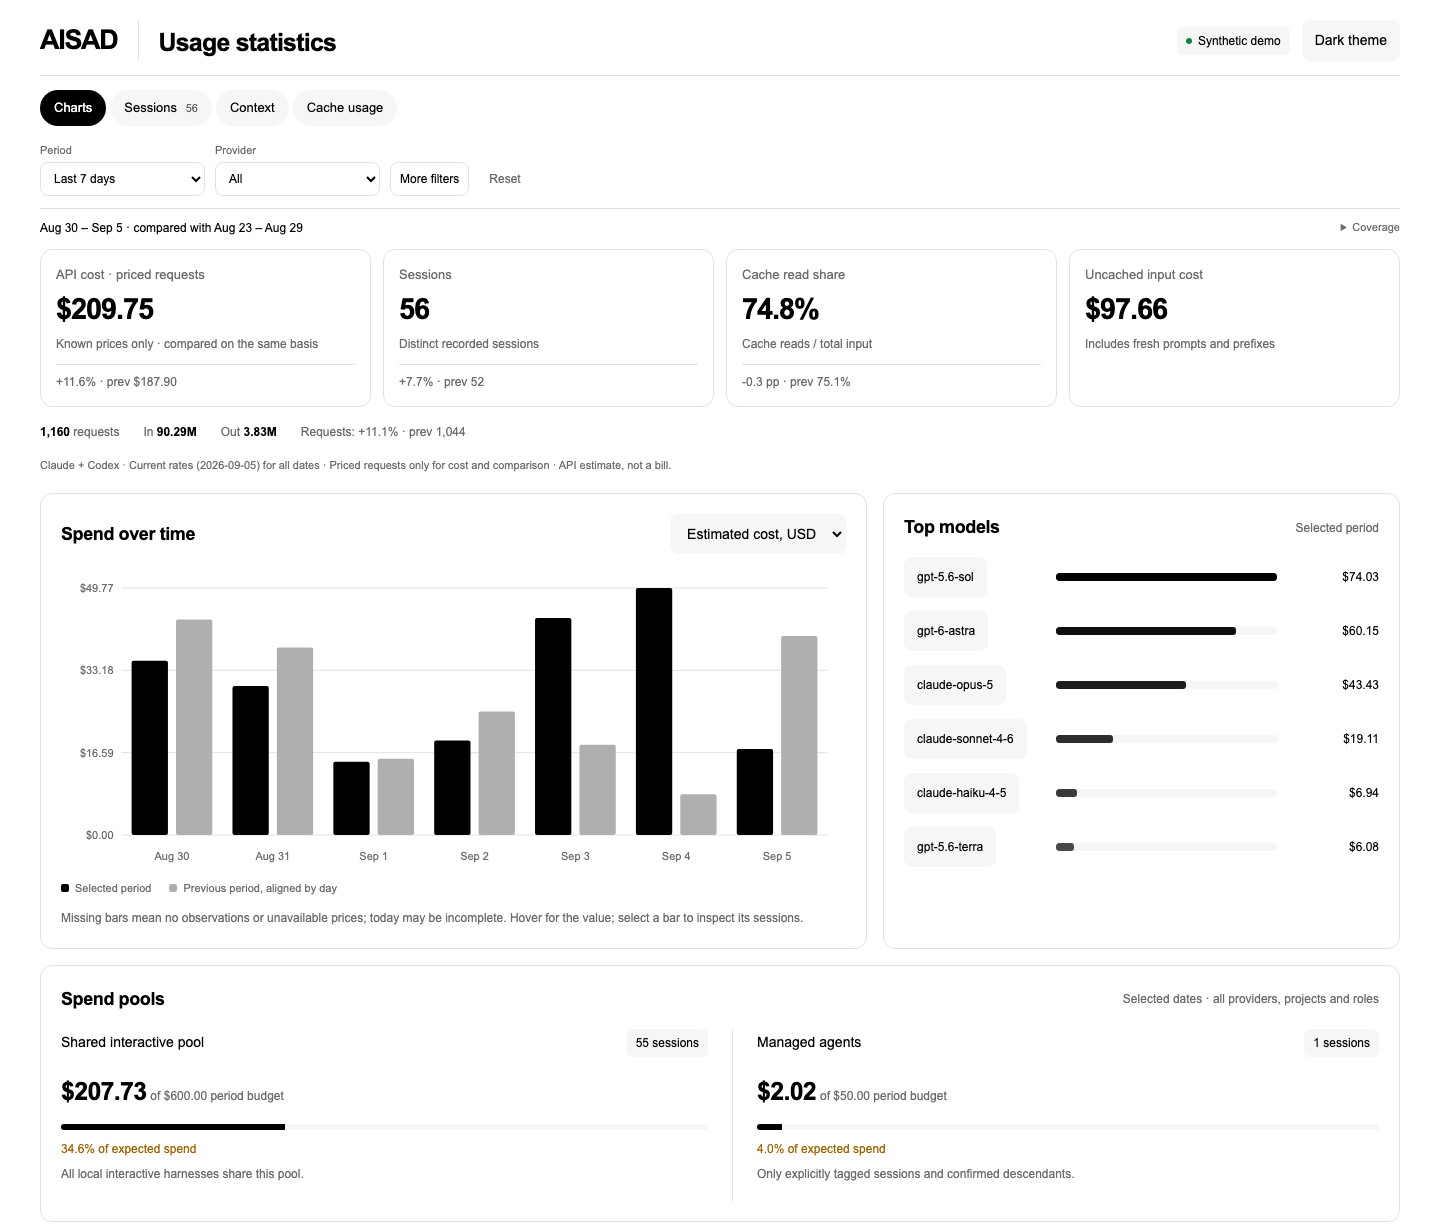
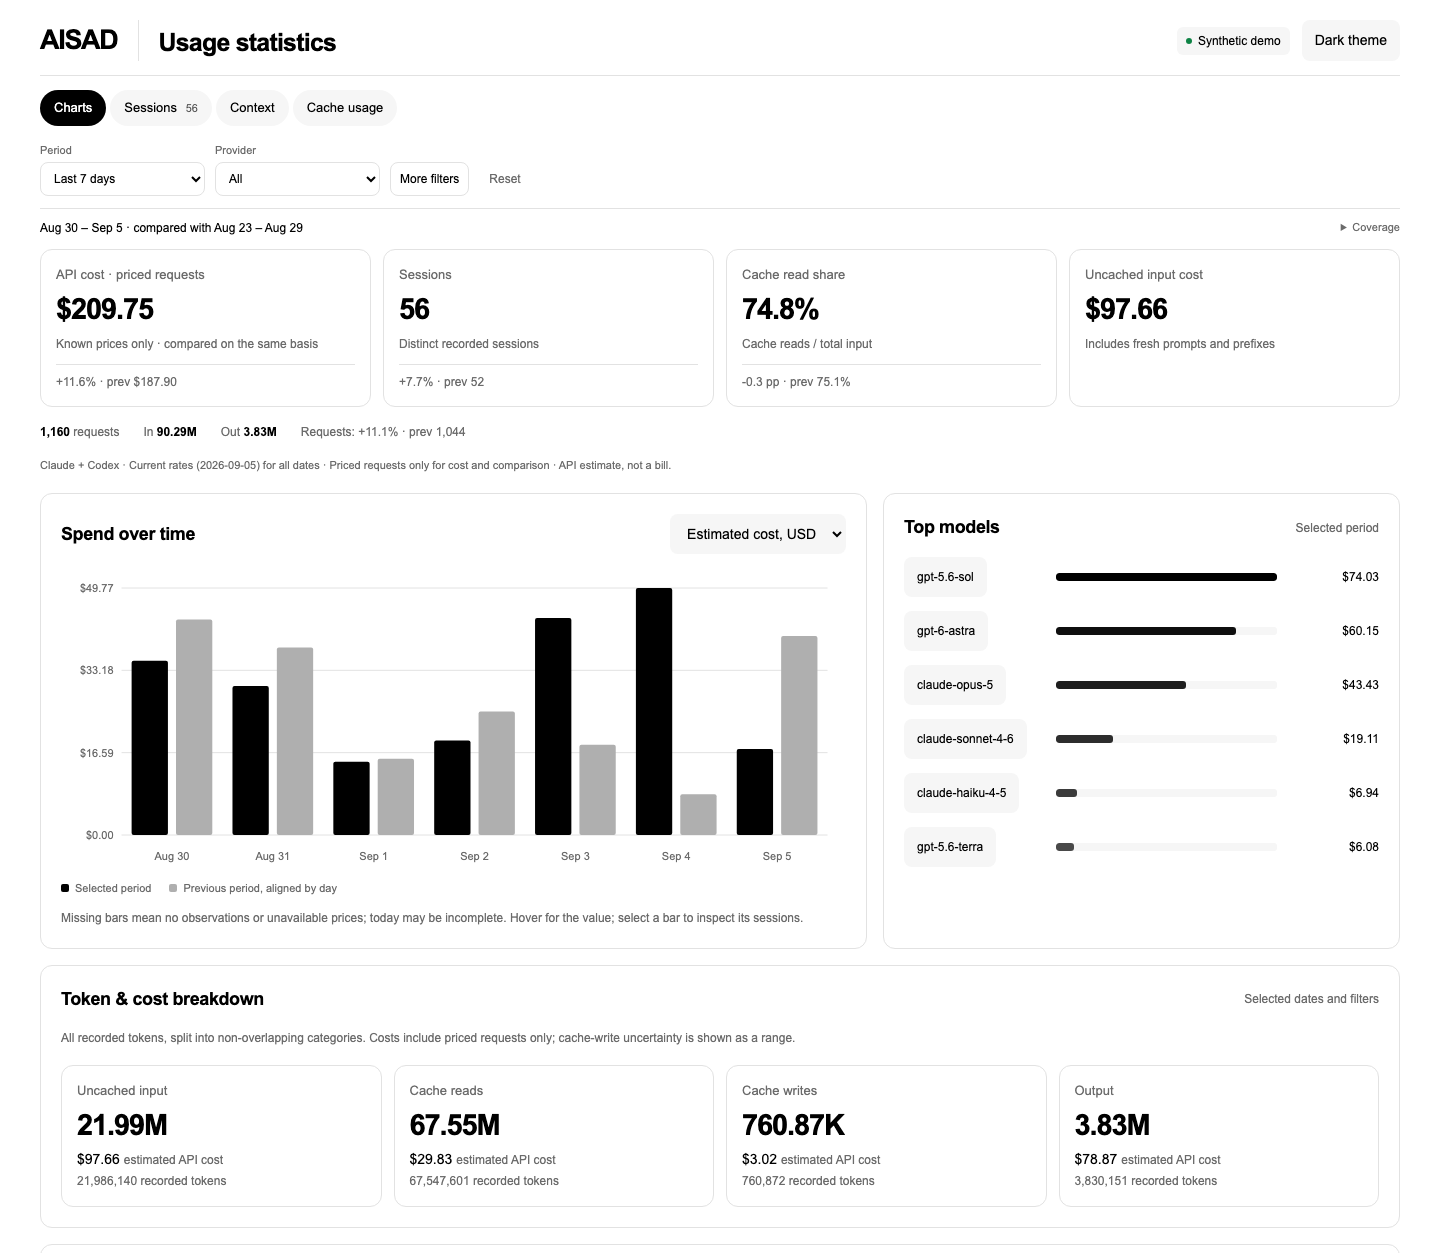
Replace spend-pool cards with complete token and cache costs

diff --git a/agent_usage.py b/agent_usage.py
@@ -865,6 +865,9 @@ def usage_totals(rows):
                   cache_share=result['cached_input_tokens']/result['input_tokens'] if result['input_tokens'] else None,
                   cost_parts_usd=dict(zip(['uncached_input','cache_reads','cache_writes','output','web_search'],
                                          [sum(row['parts'][i] for row in rows) for i in range(5)])))
+    result['uncached_input_tokens']=result['input_tokens']-result['cached_input_tokens']-result['cache_write_tokens']
+    result['cost_parts_high_usd']=dict(result['cost_parts_usd'])
+    result['cost_parts_high_usd']['cache_writes']+=max(0.,high-known)
     return result
 
 def pricing_coverage(records):
@@ -1150,13 +1153,13 @@ footer{justify-content:flex-start;align-items:baseline;gap:6px 16px;margin-top:1
 <div class="cards" id="cards"></div><div class="usage-strip" id="usage-strip"></div><div class="money-note" id="money-note"></div>
 <details class="pricing-details" id="pricing-gaps" hidden><summary id="pricing-title">Requests without a price</summary><p id="pricing-coverage" class="panel-intro"></p><div class="table-wrap"><table id="pricing-table"></table></div></details>
 <div class="grid"><section class="panel"><div class="tools"><h2>Spend over time</h2><select id="chartmetric" aria-label="Chart metric"><option value="cost">Estimated cost, USD</option><option value="total">Total tokens</option><option value="output">Output tokens</option><option value="requests">Requests</option></select></div><div id="daily"></div></section><section class="panel"><div class="tools"><h2>Top models</h2><small>Selected period</small></div><div id="models-chart"></div></section></div>
-<section class="panel wide"><div class="tools"><h2>Spend pools</h2><small>Selected dates · all providers, projects and roles</small></div><div id="pools" class="pool-grid"></div></section>
+<section class="panel wide" id="token-breakdown"><div class="tools"><h2>Token &amp; cost breakdown</h2><small>Selected dates and filters</small></div><p class="panel-intro">All recorded tokens, split into non-overlapping categories. Costs include priced requests only; cache-write uncertainty is shown as a range.</p><div id="token-cards" class="cards"></div></section>
 <section class="panel wide"><div class="tools"><h2>Usage by provider</h2><small>Select a provider to filter every view</small></div><div class="table-wrap"><table id="providers-table"></table></div></section>
-<div class="grid equal"><section class="panel"><h2>What the estimate pays for</h2><p class="panel-intro">Known priced components; cache write uncertainty is shown in the total.</p><div id="parts"></div></section><section class="panel"><h2>Top projects</h2><div id="projects-chart"></div></section></div>
+<div class="grid equal"><section class="panel"><h2>What the estimate pays for</h2><p class="panel-intro">Known priced components, including the cache-write cost range.</p><div id="parts"></div></section><section class="panel"><h2>Top projects</h2><div id="projects-chart"></div></section></div>
 <section class="panel wide"><div class="tools"><h2>Usage by model</h2><small>Select a heading to sort</small></div><div class="table-wrap"><table id="models-table"></table></div></section></div>
 <section id="view-sessions" role="tabpanel" aria-labelledby="tab-sessions" class="panel" hidden><div class="tools"><h2>Sessions</h2><div><input id="search" type="search" placeholder="Search sessions" aria-label="Search the sessions table only"> <select id="session-sort" aria-label="Sort sessions"><option value="cost">Highest cost</option><option value="max_context">Largest input</option><option value="requests">Most requests</option></select></div></div><p class="panel-intro">Open a session to inspect its usage and request timeline within the selected filters.</p><div class="table-wrap"><table id="sessions-table"></table></div><div class="tools" style="margin-top:16px"><small id="page-info"></small><div><button id="prev" aria-label="Previous sessions page">←</button> <button id="next" aria-label="Next sessions page">→</button></div></div></section>
 <section id="view-context" role="tabpanel" aria-labelledby="tab-context" hidden><div class="mini-grid" id="context-cards"></div><section class="panel"><h2>What these traces establish</h2><div id="measurement-basis"></div><p class="panel-intro">Input includes cached tokens. A cache hit changes price, not context size. Compaction does not establish which original blocks survive in the summary.</p></section><div class="grid equal"><section class="panel"><h2>Largest recorded input</h2><p class="panel-intro">Peak input per session, including cached input.</p><div id="context-chart"></div></section><section class="panel"><h2>Tool payload footprint</h2><p class="panel-intro">Result bytes recorded in local logs. Billed tokens and repeated inclusion are unavailable.</p><div id="tool-chart"></div><p class="panel-intro" id="tool-coverage"></p></section></div></section>
-<section id="view-cache" role="tabpanel" aria-labelledby="tab-cache" hidden><div class="mini-grid" id="cache-cards"></div><section class="panel"><h2>Cache by model</h2><p class="panel-intro">Weighted cache reads / total input. Uncached input includes new prompts and changed prefixes.</p><div class="table-wrap"><table id="cache-table"></table></div></section></section>
+<section id="view-cache" role="tabpanel" aria-labelledby="tab-cache" hidden><div class="cards" id="cache-cards"></div><section class="panel"><h2>Cache by model</h2><p class="panel-intro">Weighted cache reads / total input. Uncached input includes new prompts and changed prefixes.</p><div class="table-wrap"><table id="cache-table"></table></div></section></section>
 <details class="pricing-details" id="grok-usage" hidden><summary id="grok-title">Grok reported usage</summary><p id="grok-note"></p></details>
 <footer><span id="footer"></span><span id="subtitle"></span><details class="method-details"><summary>About the data</summary><div id="method"></div><p class="coverage" id="coverage"></p></details></footer></div></main>
 <dialog id="session-dialog" aria-labelledby="session-title"><div class="tools"><div><div class="eyebrow">Session detail</div><h2 id="session-title"></h2></div><button id="close-session" aria-label="Close session detail">Close ×</button></div><p class="panel-intro" id="session-caption"></p><div class="mini-grid" id="session-cards"></div><div id="session-lifecycle" class="panel-intro"></div><h3>Input per usage observation</h3><div id="session-timeline"></div><section id="observation-detail" class="panel" hidden></section><h3 style="margin-top:24px">Recorded events</h3><p id="events-note" class="panel-intro"></p><div class="table-wrap"><table id="events-table"></table></div></dialog>
@@ -1342,20 +1345,21 @@ function openSession(id){
     if(!$('session-dialog').open)$('session-dialog').showModal();
 }
 function miniCards(values){return values.map(([label,value,note])=>`<div class="card"><label>${esc(label)}</label><div class="value">${value}</div><small>${esc(note)}</small></div>`).join('')}
-function renderPools(range){
-    // Shared spend must never shrink when a model or provider filter is selected.
-    $('pools').innerHTML=['interactive','managed'].map(pool=>{
-        const rs=records.filter(r=>range&&r.date>=range.from&&r.date<=range.to&&r.pool===pool),a=aggregate(recordRows(rs)),budget=D.budgets?.[pool],ratio=budget&&rs.length?a.cost/budget:null,level=[100,80,50].find(n=>ratio!=null&&ratio*100>=n);
-        return `<div class="pool-card"><div class="tools"><span>${pool==='interactive'?'Shared interactive pool':'Managed agents'}</span><span class="tag">${integer(a.sessions.size)} sessions</span></div><strong>${cost(a)}</strong> <small>${budget?'of '+usd(budget)+' period budget':'No budget configured'}</small>${budget?`<div class="pool-track"><span style="width:${Math.min(100,Math.max(0,ratio*100))}%;${level?'background:var(--orange)':''}"></span></div><span class="nudge">${level?level+'% threshold reached':ratio==null?'No usage records':(ratio*100).toFixed(1)+'% of expected spend'}${a.unpriced?' · priced only':''}</span>`:''}<p class="panel-intro">${pool==='interactive'?'All local interactive harnesses share this pool.':'Only explicitly tagged sessions and confirmed descendants.'} ${a.cost_high-a.cost>.005?'Cost range reflects pricing uncertainty.':''}</p></div>`;
-    }).join('');
+function componentCost(a,index){
+    return a.requests>a.unpriced?moneyRange(a.parts[index],a.parts[index]+(index===2?Math.max(0,a.cost_high-a.cost):0)):'—';
+}
+function renderTokenBreakdown(a){
+    const parts=[['uncached_input','Uncached input',a.input-a.cached-a.write],['cache_reads','Cache reads',a.cached],['cache_writes','Cache writes',a.write],['output','Output',a.output]];
+    $('token-cards').innerHTML=parts.map(([id,label,tokens],index)=>`<div class="card" data-component="${id}"><label>${label}</label><div class="value" title="${integer(tokens)} tokens">${a.requests?compact(tokens):'—'}</div><div class="component-cost">${componentCost(a,index)} <small>estimated API cost</small></div><small>${integer(tokens)} recorded tokens</small></div>`).join('');
 }
 function renderStatistics(rs,ar,a,d){
     $('context-cards').innerHTML=miniCards([['Largest input',ar.length?compact(a.max_context):'—','Peak input in the selected requests'],['Largest tool result',d.traceRecords?bytes(d.stats.max_tool_bytes||0):'—','Observed local UTF-8 payload'],['Tool calls',d.traceRecords?integer(d.stats.tool_calls||0):'—','Recorded structured calls']]);
     bars('context-chart',groups(rs,'session').sort((a,b)=>b.max_context-a.max_context).slice(0,8).map(g=>({...g,label:sessionLabel(g.name)})),'max_context');
     $('tool-chart').innerHTML=d.traceRecords?`<div class="mini-grid">${miniCards([['Recorded tool results',bytes(d.stats.tool_bytes||0),integer(d.stats.tool_results||0)+' results'],['Tool calls',integer(d.stats.tool_calls||0),'Structured calls before usage observations']])}</div>`:'<div class="empty">No message/tool telemetry available.</div>';
     $('tool-coverage').textContent=`${integer(d.traceRecords)} / ${integer(ar.length)} records have message/tool telemetry. Payloads are associated with the next observed usage event; their exact billed token impact is unavailable.`;
-    $('cache-cards').innerHTML=miniCards([['Cache read share',pct(a.cache),'Cache reads / all input tokens'],['Uncached input estimate',a.requests>a.unpriced?usd(a.parts[0]):'—','Includes fresh input; not all cache misses'],['Cache writes',a.requests?compact(a.write):'—','Recorded cache creation tokens']]);
-    $('cache-table').innerHTML='<thead><tr><th>Model</th><th>Input tokens</th><th>Cached tokens</th><th>Cache share</th><th>Cache writes</th><th>Uncached estimate</th></tr></thead><tbody>'+groups(rs,'model').sort((a,b)=>b.input-a.input).map(g=>`<tr><td>${esc(g.name)}</td><td>${compact(g.input)}</td><td>${compact(g.cached)}</td><td>${pct(g.cache)}</td><td>${compact(g.write)}</td><td>${g.requests>g.unpriced?usd(g.parts[0]):'—'}</td></tr>`).join('')+'</tbody>';
+    $('cache-cards').innerHTML=miniCards([['Cache reads',a.requests?compact(a.cached):'—',componentCost(a,1)+' estimated API cost'],['Cache writes',a.requests?compact(a.write):'—',componentCost(a,2)+' estimated API cost'],['Uncached input',a.requests?compact(a.input-a.cached-a.write):'—',componentCost(a,0)+' estimated API cost'],['Cache read share',pct(a.cache),'Cache reads / all input tokens']]);
+    $('cache-table').innerHTML='<thead><tr><th>Model</th><th>Total input</th><th>Uncached input</th><th>Cache reads</th><th>Cache writes</th><th>Read share</th><th>Uncached cost</th><th>Read cost</th><th>Write cost</th></tr></thead><tbody>'+groups(rs,'model').sort((a,b)=>b.input-a.input).map(g=>`<tr><td>${esc(g.name)}</td><td>${integer(g.input)}</td><td>${integer(g.input-g.cached-g.write)}</td><td>${integer(g.cached)}</td><td>${integer(g.write)}</td><td>${pct(g.cache)}</td><td>${componentCost(g,0)}</td><td>${componentCost(g,1)}</td><td>${componentCost(g,2)}</td></tr>`).join('')+'</tbody>';
+
 }
 function renderPricingGaps(ar,a,previous=null,priorRecords=[]){
     const missing=[...ar,...priorRecords].filter(r=>r.cost==null),groups=new Map();
@@ -1391,8 +1395,8 @@ function render(){
     syncFilterControls();
     $('money-note').textContent='Claude + Codex · '+(D.price_basis==='current_rates'?'Current rates ('+D.price_as_of+') for all dates':'Custom rates')+' · Priced requests only for cost and comparison · API estimate, not a bill.'+(a.write_unknown?' Cache-write price shown as a range.':'');
     const metric=$('chartmetric').value;daily(rs,priorRows,metric,range,previous);bars('models-chart',groups(rs,'model').sort((a,b)=>b[metric]-a[metric]).slice(0,8),metric);bars('projects-chart',groups(rs,'project').sort((a,b)=>b[metric]-a[metric]).slice(0,8),metric);providersTable(rs,priorRows,previous);
-    bars('parts',['Uncached input','Cache reads','Cache writes','Output','Web search'].map((name,i)=>({name,cost:a.parts[i],cost_high:a.parts[i],requests:a.requests,unpriced:a.unpriced})));
-    modelsTable(rs);sessionsTable(rs);renderPools(range);renderStatistics(rs,ar,a,d);renderPricingGaps(ar,a,previous?b:null,previous?records.filter(r=>chosen(r,previous)):[]);
+    bars('parts',['Uncached input','Cache reads','Cache writes','Output','Web search'].map((name,i)=>({name,cost:a.parts[i],cost_high:a.parts[i]+(i===2?Math.max(0,a.cost_high-a.cost):0),requests:a.requests,unpriced:a.unpriced})));
+    modelsTable(rs);sessionsTable(rs);renderTokenBreakdown(a);renderStatistics(rs,ar,a,d);renderPricingGaps(ar,a,previous?b:null,previous?records.filter(r=>chosen(r,previous)):[]);
 }
 for(const field of ['from','to','provider','model','project','role','pool','chartmetric','session-sort'])$(field).addEventListener('change',()=>{if(field==='from'||field==='to')$('period').value='custom';page=0;render()});
 $('period').addEventListener('change',()=>{setPeriod($('period').value);page=0;render()});$('search').addEventListener('input',()=>{page=0;render()});$('prev').onclick=()=>{page--;render()};$('next').onclick=()=>{page++;render()};

diff --git a/test_usage.py b/test_usage.py
@@ -25,6 +25,24 @@ class ReportTests(unittest.TestCase):
                         timezone='UTC', price_as_of='2026-09-05', quality={}, scan={}, summary={})
         return app.usage_report(snapshot, app.parser().parse_args(['usage', *options]))
 
+    def test_cache_components_reconcile_tokens_and_cost_ranges(self):
+        rows=[self.row(provider='Claude',input=1000,cached=600,write=100,output=50,total=1050,
+                       cost=10,cost_high=11,parts=[1,2,3,4,0],write_unknown=100),
+              self.row(provider='Codex',input=500,cached=250,output=100,total=600,
+                       cost=5,cost_high=5,parts=[1,1,0,3,0])]
+        report=self.report(rows)
+        totals=report['current']['totals']
+        self.assertEqual(totals['uncached_input_tokens'],550)
+        self.assertEqual(totals['cached_input_tokens'],850)
+        self.assertEqual(totals['cache_write_tokens'],100)
+        self.assertEqual(sum(totals[k] for k in ['uncached_input_tokens','cached_input_tokens','cache_write_tokens']),totals['input_tokens'])
+        self.assertEqual(sum(totals['cost_parts_usd'].values()),totals['estimated_cost_usd'])
+        self.assertEqual(sum(totals['cost_parts_high_usd'].values()),totals['estimated_cost_high_usd'])
+        self.assertEqual(totals['cost_parts_high_usd']['cache_writes'],4)
+        claude=self.report(rows,'--provider','claude')['current']['totals']
+        self.assertEqual(claude['uncached_input_tokens'],300)
+        self.assertEqual(claude['cost_parts_usd']['cache_reads'],2)
+
     def test_default_week_and_exact_summary_format(self):
         rows = [self.row(session='Codex:' + str(i), requests=4596 if i == 0 else 1,
                          input=29_000_123 - 34_000 if i == 0 else 1000,

diff --git a/README.md b/README.md
@@ -68,7 +68,7 @@ python3 agent_usage.py usage --json --all-time --include-requests
 | `current.request_stats`, `previous.request_stats` | Per-request context, timing and numeric trace statistics with `--include-requests` |
 | `pools`, `pool_scope` | Shared interactive and managed spend across all providers/projects for the selected dates |
 
-`estimated_cost_usd` and `estimated_cost_high_usd` are null when no requests can be priced. With partial pricing they contain the known subtotal; check `unpriced_requests` before interpreting them as a complete total. `known_cost_usd` always names that known subtotal explicitly. A nonzero range reflects unknown cache TTLs. `cache_share` is a fraction; its delta uses percentage points. Session counts are distinct within each group, so adding sessions across models or dates double-counts shared sessions. Missing dates are absent from the breakdown, not proof of zero usage.
+`estimated_cost_usd` and `estimated_cost_high_usd` are null when no requests can be priced. With partial pricing they contain the known subtotal; check `unpriced_requests` before interpreting them as a complete total. `known_cost_usd` always names that known subtotal explicitly. `uncached_input_tokens + cached_input_tokens + cache_write_tokens` equals `input_tokens`. `cost_parts_usd` and `cost_parts_high_usd` give the lower and upper priced subtotals for each component. A nonzero range reflects unknown cache TTLs. `cache_share` is a fraction; its delta uses percentage points. Session counts are distinct within each group, so adding sessions across models or dates double-counts shared sessions. Missing dates are absent from the breakdown, not proof of zero usage.
 
 ## Session statistics
 
@@ -193,7 +193,7 @@ python3 skills/aisad/scripts/aisad.py install \
 - Uncached input, output, cache reads and 5-minute/1-hour cache writes.
 - Main threads, subagents and auto-review where roles are recorded.
 - Global period, date, provider, model, project, role and pool filters; a searchable, sortable session table with request timelines.
-- Context and tool/MCP footprints, cache usage, shared spend pools and optional budget counters.
+- Context and tool footprints, cache usage, and a token/cost breakdown for uncached input, cache reads, cache writes and output.
 - Trace coverage, parsing diagnostics and requests with unknown prices.
 
 Session titles are excluded by default; the dashboard uses session IDs and project names. `--include-titles` adds shortened titles with basic redaction of obvious secrets. This is not comprehensive anonymization. Message bodies, reasoning, tool arguments and tool results are not saved in the export.

diff --git a/CHANGELOG.md b/CHANGELOG.md
@@ -2,6 +2,8 @@
 
 ## 1.1.0 — on-demand session evidence (unreleased)
 
+- Replace dashboard spend-pool cards with uncached input, cache-read, cache-write and output token/cost breakdowns. Expose cache-write cost ranges by component in the UI and JSON.
+
 - Add a transactional local SQLite event database with usage observations, session/turn relationships, tool-call metadata, context observations and file/line provenance.
 - Add one-shot `collect`, `sessions` and `session` commands with JSON, date/provider/model filters, descendant scope and timeline pagination.
 - Add chart-to-session drill-down, request evidence, recorded lifecycle/compaction events and measured/estimated/unavailable definitions to offline reports.
